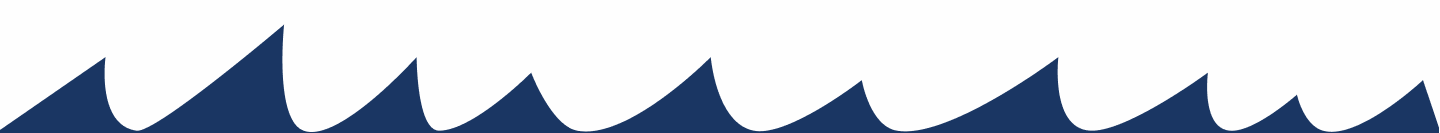
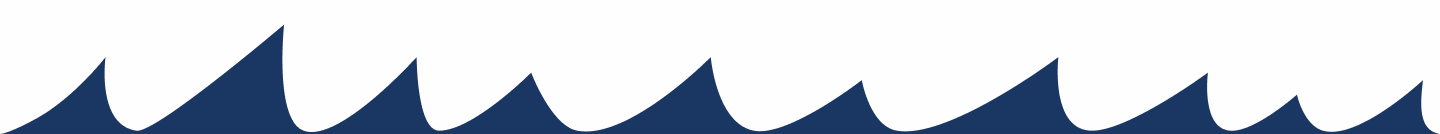
added images

diff --git a/index.html b/index.html
@@ -17,7 +17,7 @@
     <div class="container" style = "padding:5%;">
         <div class="row">
             <div class="col-lg-5 m-auto">
-                <img class="mobileimg" src="https://cdn.dribbble.com/users/466099/screenshots/13394224/media/e484e89ef6d687ef7127d4094ac461de.png?compress=1&resize=1600x1200" alt="cover pic" style=" max-width: 140%">
+                <img class="beachimage" src="Images/Beach.png" alt="cover pic" style=" max-width: 100%">
             </div>
             <div class="col-lg-1"></div>
             <div class="col-lg-6 m-auto">

diff --git a/CSS/style.css b/CSS/style.css
@@ -1,5 +1,5 @@
 h1 {
-    color: rgb(255, 118, 94);
+    color: #1A3663;
     font-family: Montserrat;
     font-style: normal;
     font-weight: 800;
@@ -7,7 +7,7 @@ h1 {
 }
 
 h2 {
-    color: rgb(255, 118, 94);
+    color: #1A3663;
     font-family: Montserrat;
     font-style: normal;
     font-weight: 500;
